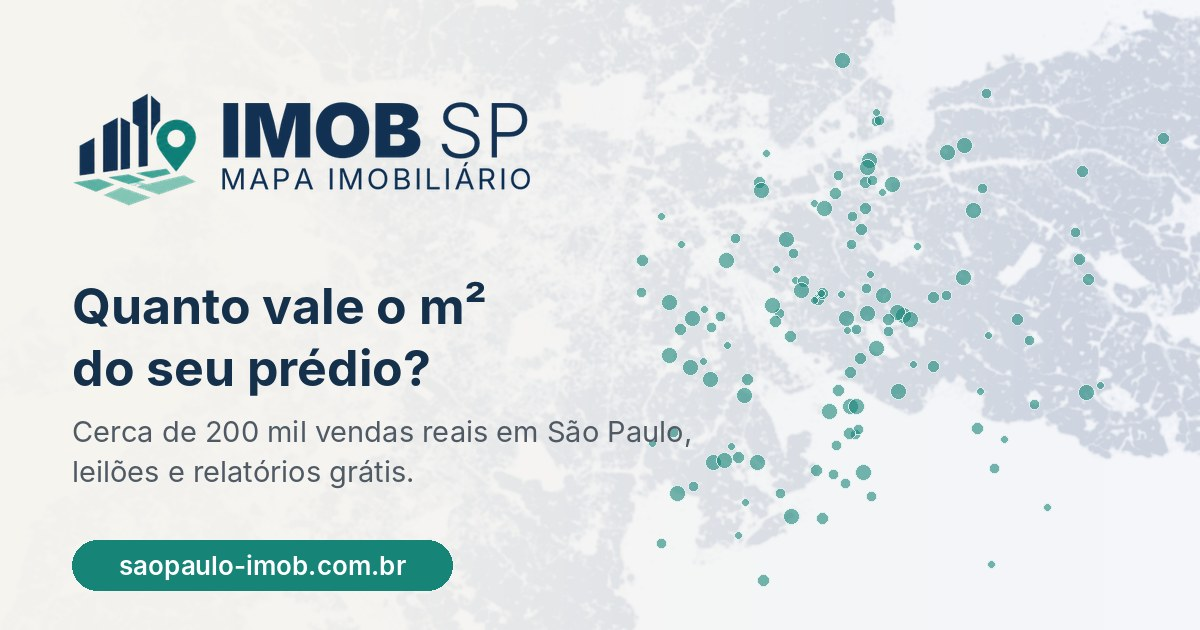
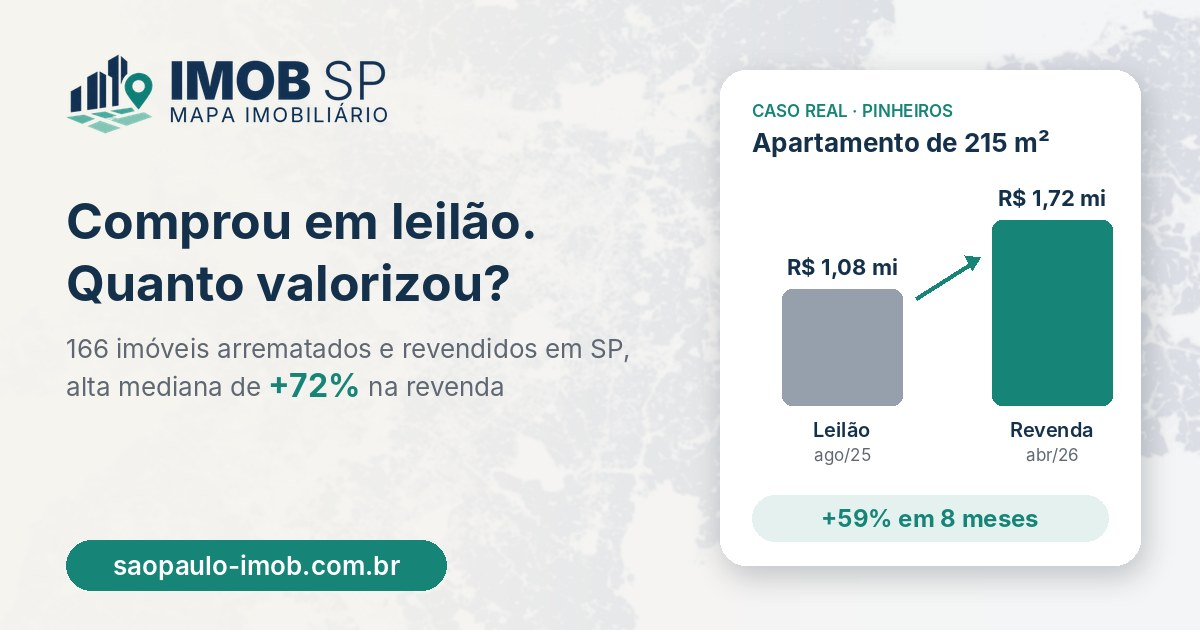
Prévia do link focada na valorização de imóveis de leilão
Claude-Session: https://claude.ai/code/session_01GmgV2T4na37DsthV4eJGCH

diff --git a/publicacao/index.html b/publicacao/index.html
@@ -10,16 +10,16 @@
 <meta property="og:type" content="website">
 <meta property="og:locale" content="pt_BR">
 <meta property="og:site_name" content="IMOB SP">
-<meta property="og:title" content="IMOB SP · Quanto vale o m² do seu prédio?">
-<meta property="og:description" content="Cerca de 200 mil vendas reais em São Paulo, imóveis de leilão revendidos e relatórios grátis. Dados de ITBI da Prefeitura.">
+<meta property="og:title" content="IMOB SP · Imóveis de leilão: quanto valorizaram na revenda?">
+<meta property="og:description" content="166 imóveis arrematados e revendidos em SP, com alta mediana de 72%. Cerca de 200 mil vendas reais, relatórios grátis, dados de ITBI da Prefeitura.">
 <meta property="og:url" content="https://saopaulo-imob.com.br/">
 <meta property="og:image" content="https://saopaulo-imob.com.br/og-imobsp.jpg">
 <meta property="og:image:width" content="1200">
 <meta property="og:image:height" content="630">
 <meta property="og:image:alt" content="IMOB SP — mapa imobiliário de São Paulo">
 <meta name="twitter:card" content="summary_large_image">
-<meta name="twitter:title" content="IMOB SP · Quanto vale o m² do seu prédio?">
-<meta name="twitter:description" content="Cerca de 200 mil vendas reais em São Paulo, leilões e relatórios grátis.">
+<meta name="twitter:title" content="IMOB SP · Imóveis de leilão: quanto valorizaram na revenda?">
+<meta name="twitter:description" content="166 imóveis de leilão revendidos em SP, alta mediana de 72%. Relatórios grátis.">
 <meta name="twitter:image" content="https://saopaulo-imob.com.br/og-imobsp.jpg">
 <style>
 :root {
